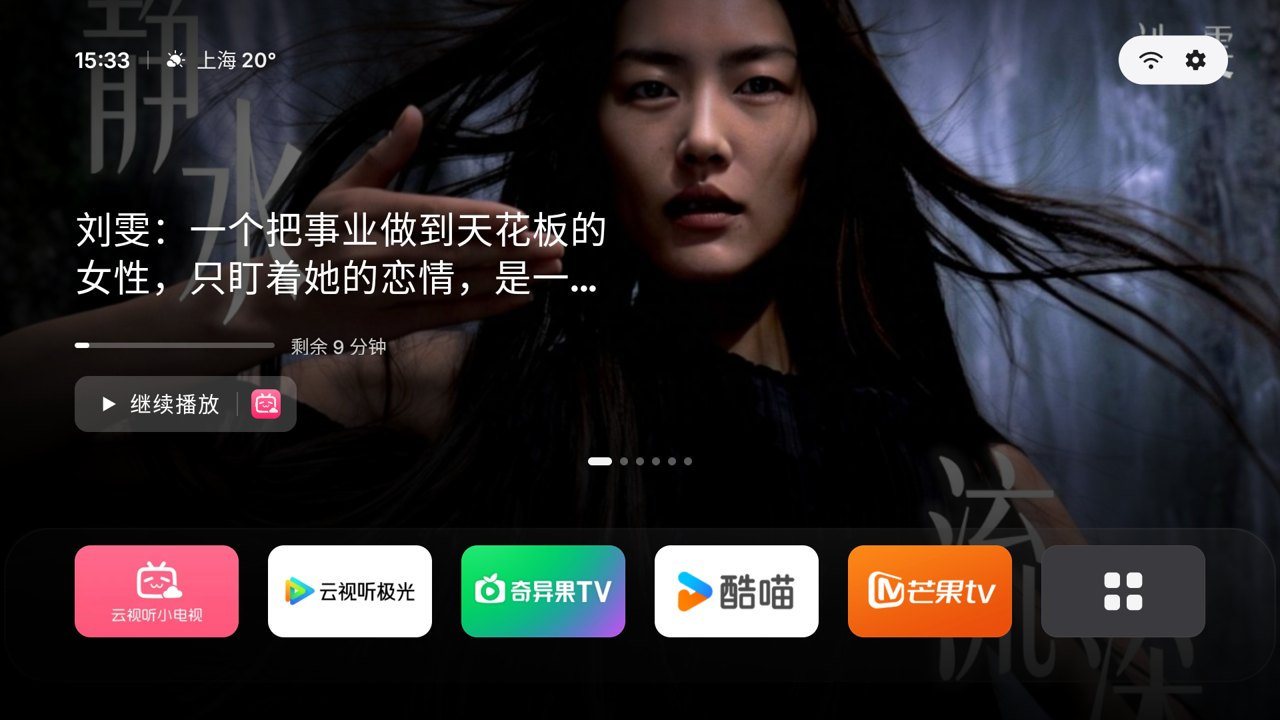
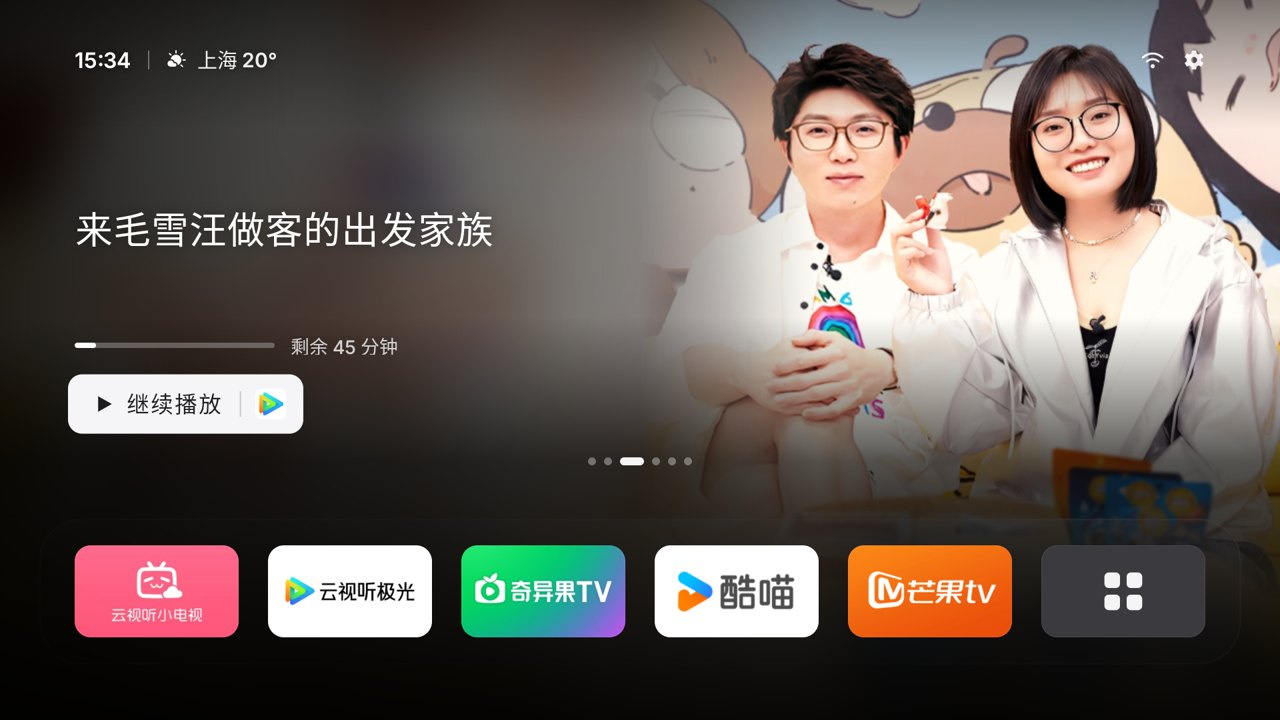
更新 README 截图

diff --git a/README.en.md b/README.en.md
@@ -24,7 +24,7 @@ No ads, no recommendation feed. Tested feature by feature on a China-market TCL 
 - **Portrait posters**: for services that only give a portrait poster (Tencent Video), the poster fills the right half and fades into the background.
 
 <p align="center">
-  <img src="docs/screenshots/portrait.jpg" width="49%" alt="Portrait poster across the right half">
+  <img src="docs/screenshots/continue.jpg" width="49%" alt="Continue watching: the latest video fills Home">
   <img src="docs/screenshots/all-apps.jpg" width="49%" alt="All Apps">
 </p>
 

diff --git a/README.md b/README.md
@@ -24,7 +24,7 @@
 - **竖版海报**：只给竖版海报的平台（比如腾讯视频），海报铺满右半屏，渐隐进背景。
 
 <p align="center">
-  <img src="docs/screenshots/portrait.jpg" width="49%" alt="竖版海报铺满右半屏">
+  <img src="docs/screenshots/continue.jpg" width="49%" alt="继续播放：最近在看的视频铺满首页">
   <img src="docs/screenshots/all-apps.jpg" width="49%" alt="全部应用">
 </p>
 
